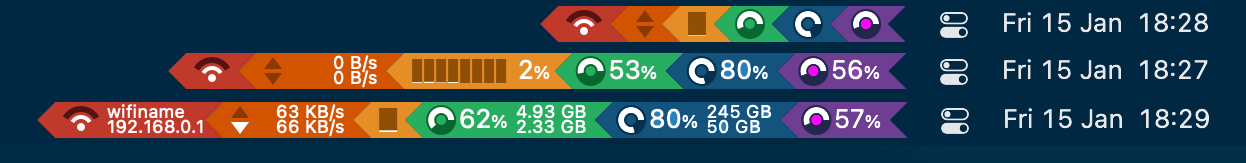
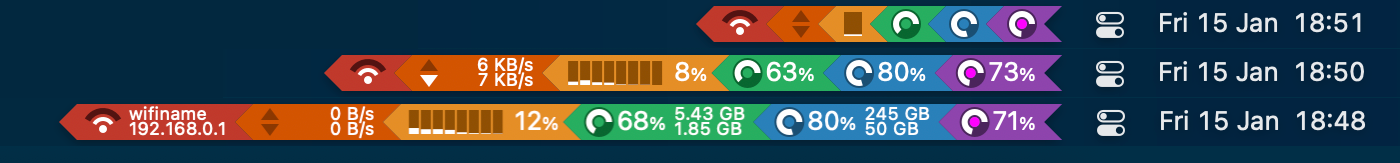
Fixed extra mode minor issues

diff --git a/mb/Meters/MeterCpu.swift b/mb/Meters/MeterCpu.swift
@@ -20,7 +20,7 @@ class MeterCpu  : Meter {
         cpuCount = Monitor.cpuCount()
         let cpuIconsWidth = (Double(cpuCount) * MenuBarSettings.cpuBarWidth) + ((Double(cpuCount) - 1))
         super.init()
-        if (MenuBarSettings.mode == MenuBarSettings.Mode.normal) {
+        if (MenuBarSettings.mode != MenuBarSettings.Mode.compact) {
             minContainerWidth += cpuIconsWidth
                                + MenuBarSettings.spacing
                                + MenuBar.charPercentageWidth
@@ -33,7 +33,7 @@ class MeterCpu  : Meter {
         (cpus, cpuUsage) = monitor.cpuUsage()
         text.mutableString.setString(String(format: "%.0f", cpuUsage))
         containerWidth = minContainerWidth
-        if (MenuBarSettings.mode == MenuBarSettings.Mode.normal) {
+        if (MenuBarSettings.mode != MenuBarSettings.Mode.compact) {
             containerWidth += Double(text.size().width)
         }
     }
@@ -48,7 +48,7 @@ class MeterCpu  : Meter {
         
         currentPos += MenuBarSettings.arrowWidth + MenuBarSettings.spacing
             
-        if (MenuBarSettings.mode == MenuBarSettings.Mode.normal) {
+        if (MenuBarSettings.mode != MenuBarSettings.Mode.compact) {
             for cpu in cpus {
                 if cpu >= 0.0 {
                     let cpuBarR = NSRect(x: currentPos, y: MenuBarSettings.cpuBarY

diff --git a/mb/Meters/MeterIp.swift b/mb/Meters/MeterIp.swift
@@ -61,7 +61,7 @@ class MeterIp  : Meter {
         
         containerWidth = minContainerWidth
         if (MenuBarSettings.mode == MenuBarSettings.Mode.extra) {
-            containerWidth += Double(max(textIp.size().width,textWifi.size().width))
+            containerWidth += MenuBarSettings.spacing + Double(max(textIp.size().width,textWifi.size().width))
         }
     }
     
